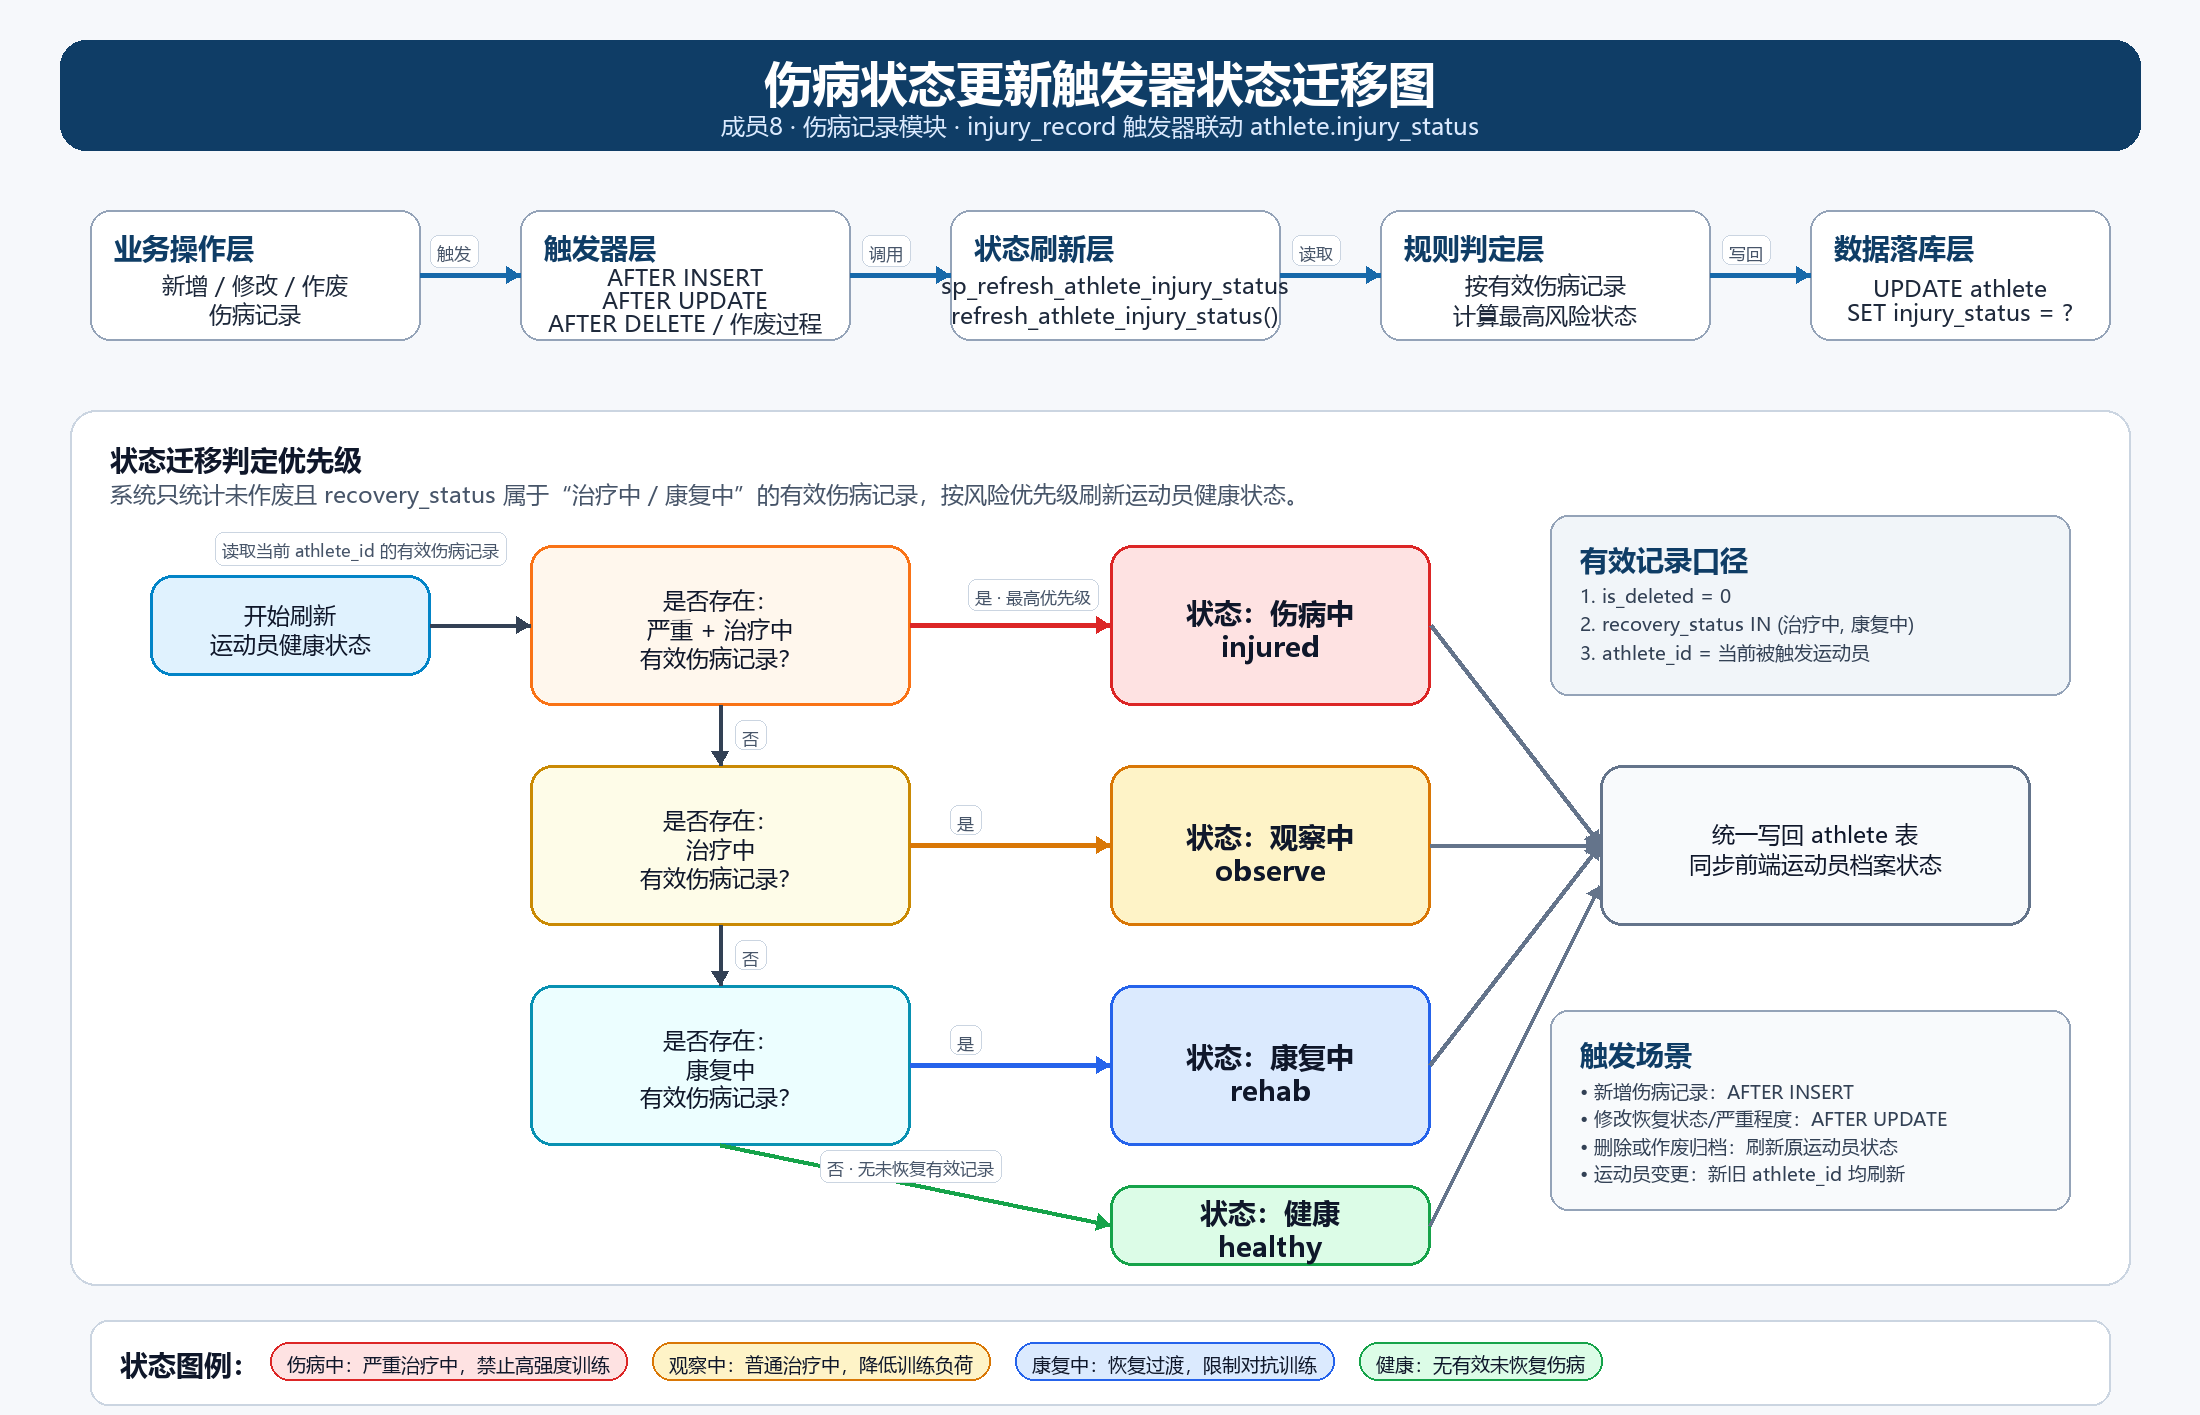
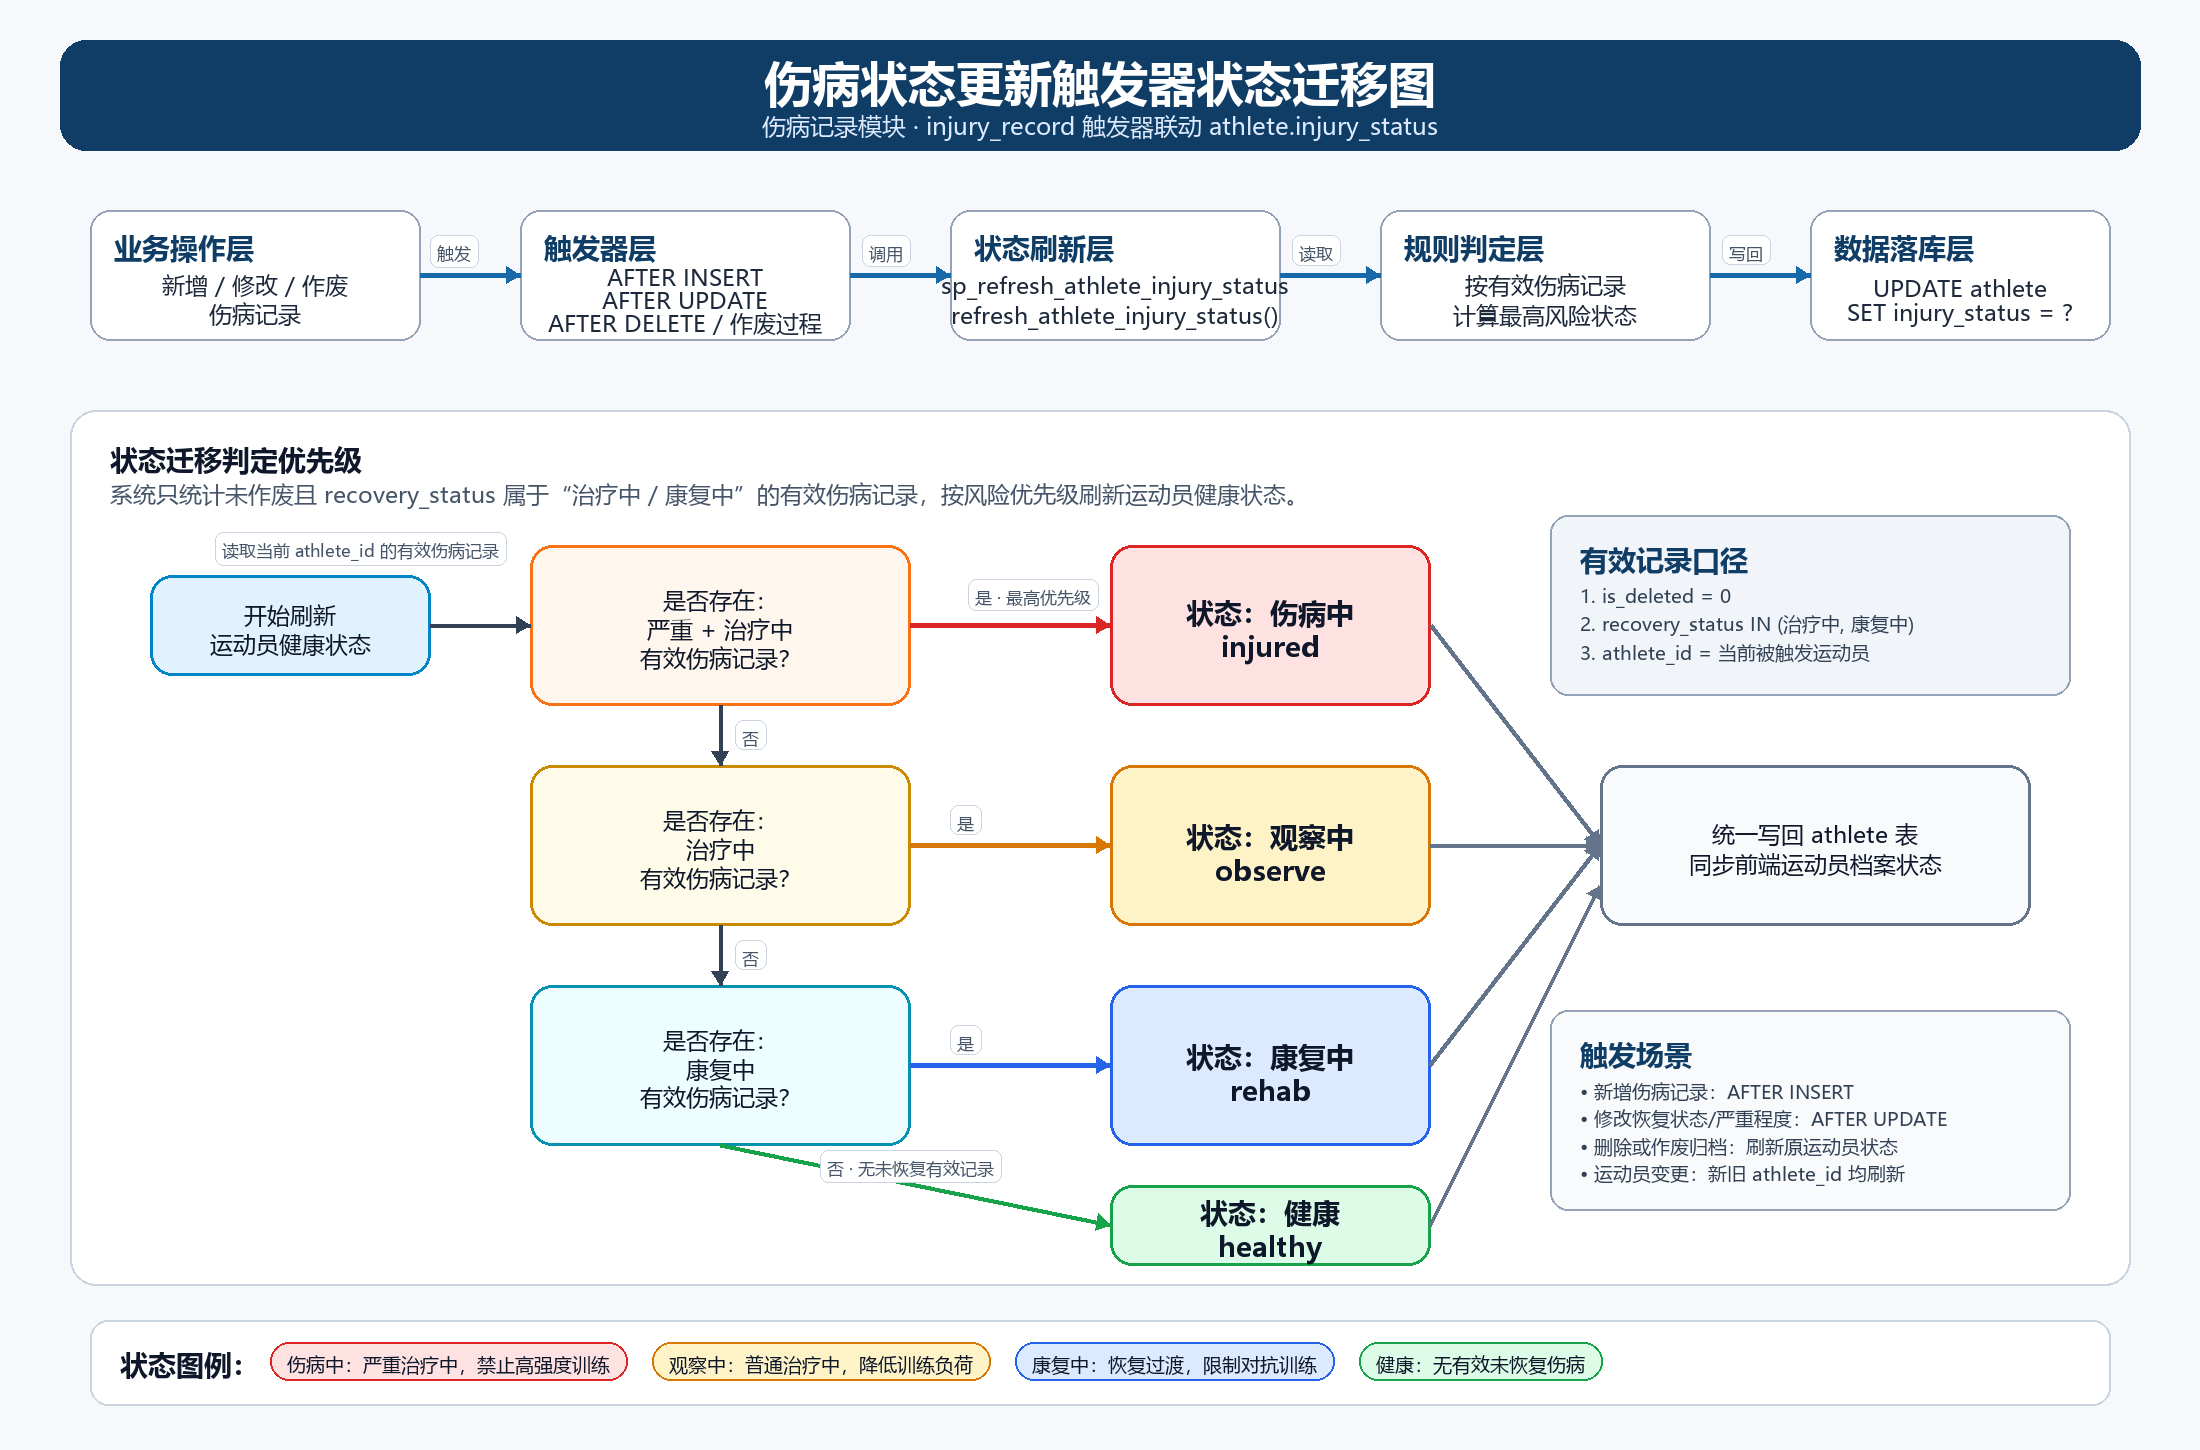
chore: finalize canonical system code

diff --git a/伤病记录开发模块/redraw_injury_state_diagram.py b/伤病记录开发模块/redraw_injury_state_diagram.py
@@ -93,7 +93,7 @@ def pill(x, y, text, fill, outline):
 
 rounded_rect((60, 40, W - 60, 150), "#0f3d66", outline="#0f3d66", radius=26)
 text_center((60, 48, W - 60, 102), "伤病状态更新触发器状态迁移图", F_TITLE, "#ffffff")
-text_center((60, 102, W - 60, 144), "成员8 · 伤病记录模块 · injury_record 触发器联动 athlete.injury_status", F_SUB, "#dbeafe")
+text_center((60, 102, W - 60, 144), "伤病记录模块 · injury_record 触发器联动 athlete.injury_status", F_SUB, "#dbeafe")
 
 sections = [
     ((90, 210, 420, 340), "业务操作层", "新增 / 修改 / 作废\n伤病记录"),
@@ -167,8 +167,6 @@ x = pill(x, 1342, "伤病中：严重治疗中，禁止高强度训练", "#fee2e
 x = pill(x, 1342, "观察中：普通治疗中，降低训练负荷", "#fef3c7", "#d97706") + 25
 x = pill(x, 1342, "康复中：恢复过渡，限制对抗训练", "#dbeafe", "#2563eb") + 25
 pill(x, 1342, "健康：无有效未恢复伤病", "#dcfce7", "#16a34a")
-
-text_center((60, 1412, W - 60, 1445), "输出文件：伤病状态更新触发器状态迁移图.png · 适用于课程设计报告 5.6 触发器设计章节", F_TINY, "#64748b")
 
 img.save(out_path, quality=95)
 print(out_path)
